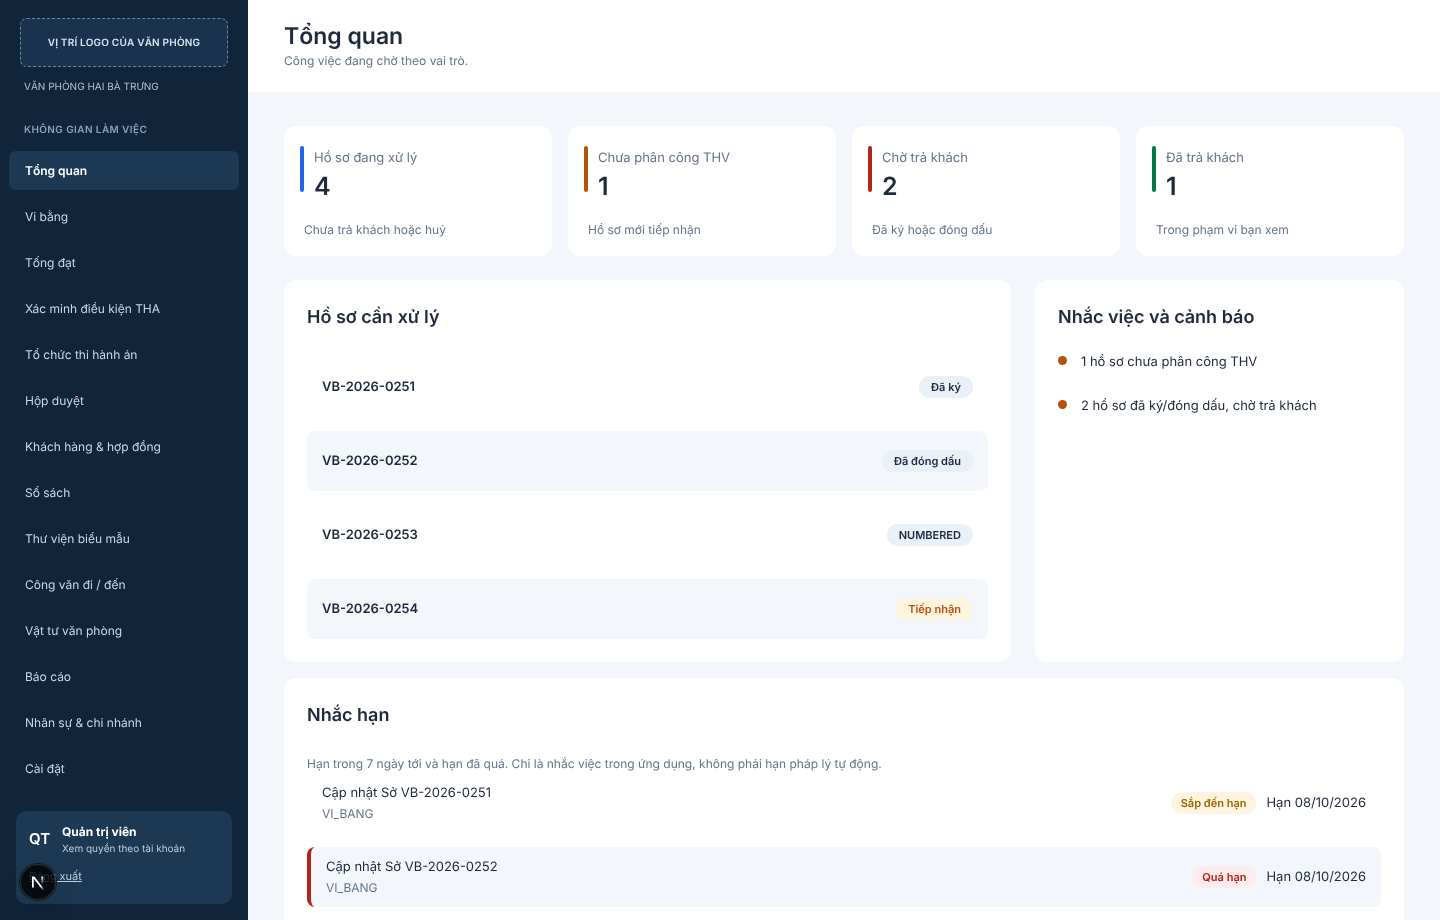
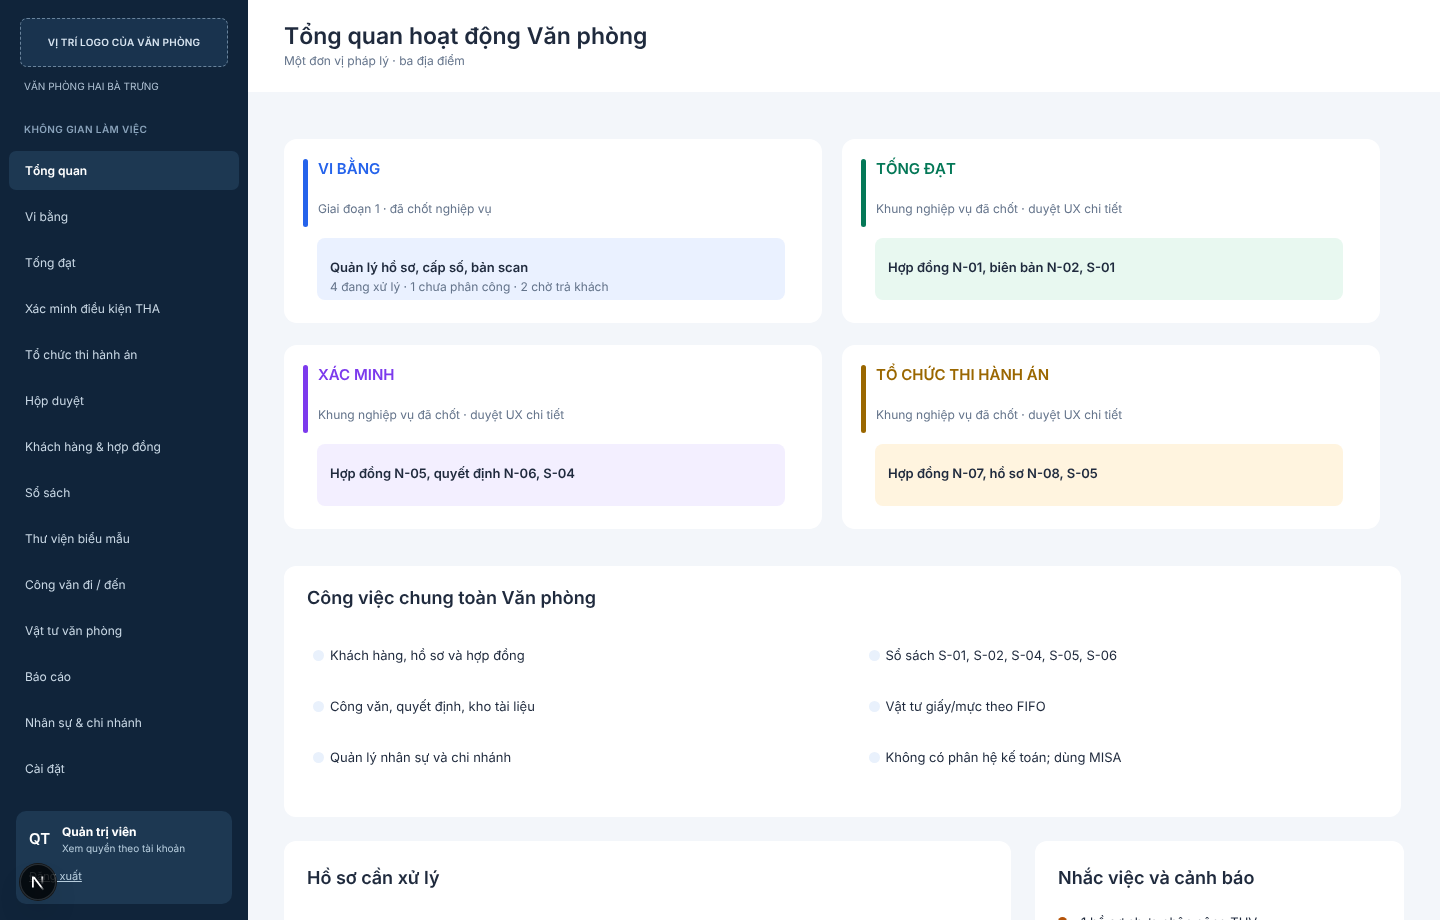
feat(web): làm lại màn Tổng quan theo Figma 56:2 (bốn nghiệp vụ)
Claude-Session: https://claude.ai/code/session_01TuayhBfCeqvzC4WVhHb6qe

diff --git a/apps/web/app/page.tsx b/apps/web/app/page.tsx
@@ -1,5 +1,4 @@
 import Link from 'next/link';
-import { StatCard } from '../components/StatCard';
 import { ModuleState } from '../components/ModuleState';
 import { isOpenCase, loadCases, summarizeCases } from '../lib/cases';
 import { DeadlineReminders } from '../components/DeadlineReminders';
@@ -9,6 +8,43 @@ import { currentSession, requestCookie } from '../lib/server';
 import { NAV, OVERVIEW } from './nav';
 
 export const dynamic = 'force-dynamic';
+
+/** Bốn nghiệp vụ trên màn Tổng quan (Figma 56:2). */
+const DOMAINS = [
+  {
+    slug: 'vi-bang',
+    name: 'VI BẰNG',
+    sub: 'Giai đoạn 1 · đã chốt nghiệp vụ',
+    meta: 'Quản lý hồ sơ, cấp số, bản scan',
+  },
+  {
+    slug: 'tong-dat',
+    name: 'TỐNG ĐẠT',
+    sub: 'Khung nghiệp vụ đã chốt · duyệt UX chi tiết',
+    meta: 'Hợp đồng N-01, biên bản N-02, S-01',
+  },
+  {
+    slug: 'xac-minh',
+    name: 'XÁC MINH',
+    sub: 'Khung nghiệp vụ đã chốt · duyệt UX chi tiết',
+    meta: 'Hợp đồng N-05, quyết định N-06, S-04',
+  },
+  {
+    slug: 'to-chuc-tha',
+    name: 'TỔ CHỨC THI HÀNH ÁN',
+    sub: 'Khung nghiệp vụ đã chốt · duyệt UX chi tiết',
+    meta: 'Hợp đồng N-07, hồ sơ N-08, S-05',
+  },
+] as const;
+
+const COMMON_WORK = [
+  'Khách hàng, hồ sơ và hợp đồng',
+  'Sổ sách S-01, S-02, S-04, S-05, S-06',
+  'Công văn, quyết định, kho tài liệu',
+  'Vật tư giấy/mực theo FIFO',
+  'Quản lý nhân sự và chi nhánh',
+  'Không có phân hệ kế toán; dùng MISA',
+];
 
 const canSeeCases = (roles: readonly string[]) =>
   (NAV.find((n) => n.slug === 'vi-bang')?.roles ?? []).some((r) => roles.includes(r));
@@ -39,31 +75,39 @@ export default async function HomePage() {
     sum.unassigned > 0 ? `${sum.unassigned} hồ sơ chưa phân công THV` : '',
     sum.awaitingReturn > 0 ? `${sum.awaitingReturn} hồ sơ đã ký/đóng dấu, chờ trả khách` : '',
   ].filter(Boolean);
+  const visible = DOMAINS.filter((d) =>
+    (NAV.find((n) => n.slug === d.slug)?.roles ?? []).some((r) => session.roles.includes(r)),
+  );
   return (
     <section aria-labelledby="t">
       <h1 id="t" className="sr-only">
-        Tổng quan
+        Tổng quan hoạt động Văn phòng
       </h1>
-      <div className="stats stats-top">
-        <StatCard label="Hồ sơ đang xử lý" value={sum.open} note="Chưa trả khách hoặc huỷ" />
-        <StatCard
-          label="Chưa phân công THV"
-          value={sum.unassigned}
-          note="Hồ sơ mới tiếp nhận"
-          tone="amber"
-        />
-        <StatCard
-          label="Chờ trả khách"
-          value={sum.awaitingReturn}
-          note="Đã ký hoặc đóng dấu"
-          tone="red"
-        />
-        <StatCard
-          label="Đã trả khách"
-          value={sum.returned}
-          note="Trong phạm vi bạn xem"
-          tone="green"
-        />
+      <div className="domains">
+        {visible.map((d) => (
+          <Link key={d.slug} href={`/${d.slug}`} className="domain" data-domain={d.slug}>
+            <span className="domain-flag" aria-hidden="true" />
+            <span className="domain-name">{d.name}</span>
+            <span className="domain-sub">{d.sub}</span>
+            <span className="domain-meta">
+              <span className="domain-meta-line">{d.meta}</span>
+              {d.slug === 'vi-bang' ? (
+                <span className="domain-count">
+                  {sum.open} đang xử lý · {sum.unassigned} chưa phân công · {sum.awaitingReturn} chờ
+                  trả khách
+                </span>
+              ) : null}
+            </span>
+          </Link>
+        ))}
+      </div>
+      <div className="panel common-work">
+        <h2>Công việc chung toàn Văn phòng</h2>
+        <ul>
+          {COMMON_WORK.map((t) => (
+            <li key={t}>{t}</li>
+          ))}
+        </ul>
       </div>
       <div className="panels">
         <div className="panel">

diff --git a/apps/web/app/globals.css b/apps/web/app/globals.css
@@ -1318,3 +1318,128 @@ tr[data-selected='true'] > td {
   flex-wrap: wrap;
   gap: 10px;
 }
+
+/* Tổng quan — bốn nghiệp vụ (Figma 56:2). */
+.domains {
+  display: grid;
+  grid-template-columns: 1fr;
+  gap: 22px 20px;
+  max-width: 1096px;
+  margin: 19px 0 37px;
+}
+@media (min-width: 900px) {
+  .domains {
+    grid-template-columns: 1fr 1fr;
+  }
+}
+.domain {
+  --tone: var(--accent);
+  --tone-bg: #eaf1ff;
+  position: relative;
+  display: block;
+  min-height: 184px;
+  padding: 18px 20px 0 34px;
+  color: var(--ink);
+  text-decoration: none;
+  background: var(--surface);
+  border-radius: 13px;
+}
+.domain[data-domain='tong-dat'] {
+  --tone: #047857;
+  --tone-bg: #e8f8f0;
+}
+.domain[data-domain='xac-minh'] {
+  --tone: #7c3aed;
+  --tone-bg: #f3efff;
+}
+.domain[data-domain='to-chuc-tha'] {
+  --tone: #9a6700;
+  --tone-bg: #fff4df;
+}
+.domain:hover,
+.domain:focus-visible {
+  box-shadow: 0 0 0 2px var(--tone);
+}
+.domain-flag {
+  position: absolute;
+  left: 19px;
+  top: 20px;
+  width: 5px;
+  height: 68px;
+  border-radius: 3px;
+  background: var(--tone);
+}
+.domain-name {
+  display: block;
+  font-size: 15px;
+  line-height: 24px;
+  font-weight: 600;
+  color: var(--tone);
+}
+.domain-sub {
+  display: block;
+  margin-top: 16px;
+  font-size: 12px;
+  line-height: 24px;
+  color: var(--muted);
+}
+.domain-meta {
+  display: block;
+  margin: 17px 0 0 -1px;
+  padding: 17px 13px 5px;
+  margin-right: 17px;
+  min-height: 62px;
+  background: var(--tone-bg);
+  border-radius: 8px;
+}
+.domain-meta-line {
+  display: block;
+  font-size: 13px;
+  line-height: 24px;
+  font-weight: 600;
+}
+.domain-count {
+  display: block;
+  font-size: 12px;
+  line-height: 16px;
+  color: var(--muted);
+}
+.common-work {
+  max-width: 1117px;
+  padding: 20px 23px 48px;
+  margin-bottom: 24px;
+}
+.common-work h2 {
+  margin: 0 0 33px;
+  font-size: 18px;
+  line-height: 24px;
+}
+.common-work ul {
+  display: grid;
+  grid-template-columns: 1fr;
+  gap: 27px 40px;
+  margin: 0;
+  padding: 0;
+  list-style: none;
+}
+@media (min-width: 900px) {
+  .common-work ul {
+    grid-template-columns: 1fr 1fr;
+  }
+}
+.common-work li {
+  position: relative;
+  padding-left: 23px;
+  font-size: 13px;
+  line-height: 24px;
+}
+.common-work li::before {
+  content: '';
+  position: absolute;
+  left: 6px;
+  top: 7px;
+  width: 11px;
+  height: 11px;
+  border-radius: 6px;
+  background: #e9f1fc;
+}

diff --git a/apps/web/components/AppShell.tsx b/apps/web/components/AppShell.tsx
@@ -24,6 +24,7 @@ const initials = (label: string) =>
 
 /** Trang con có đầu trang riêng trong Figma (3:54). */
 const SUBPAGE_HEAD: Record<string, { title: string; sub: string }> = {
+  '/': { title: 'Tổng quan hoạt động Văn phòng', sub: 'Một đơn vị pháp lý · ba địa điểm' },
   '/quan-tri': { title: 'Nhân sự và phân quyền', sub: 'Vai trò, chi nhánh và quyền xử lý hồ sơ' },
   '/cai-dat': {
     title: 'Cấu hình văn phòng',
